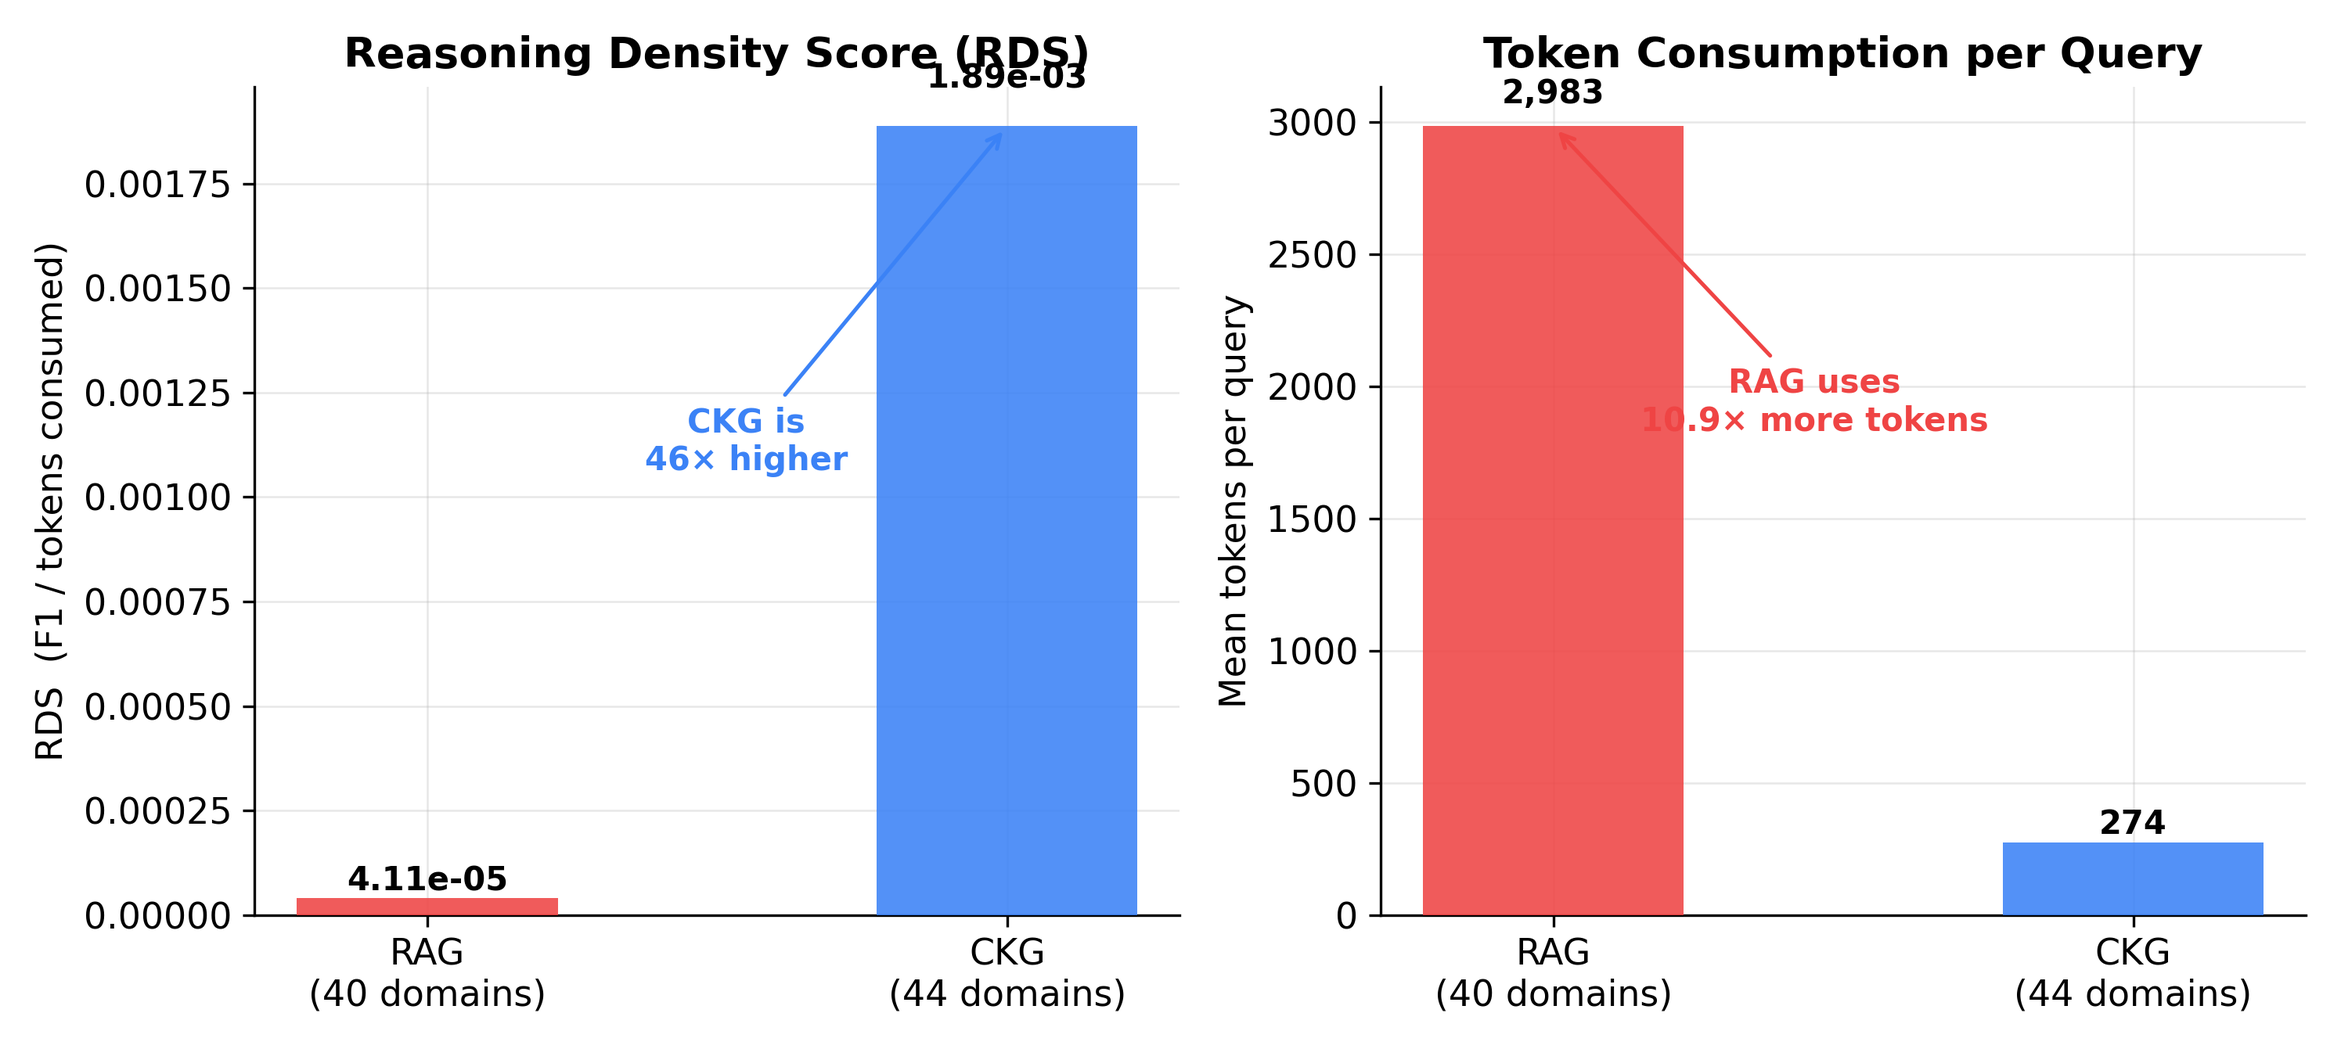
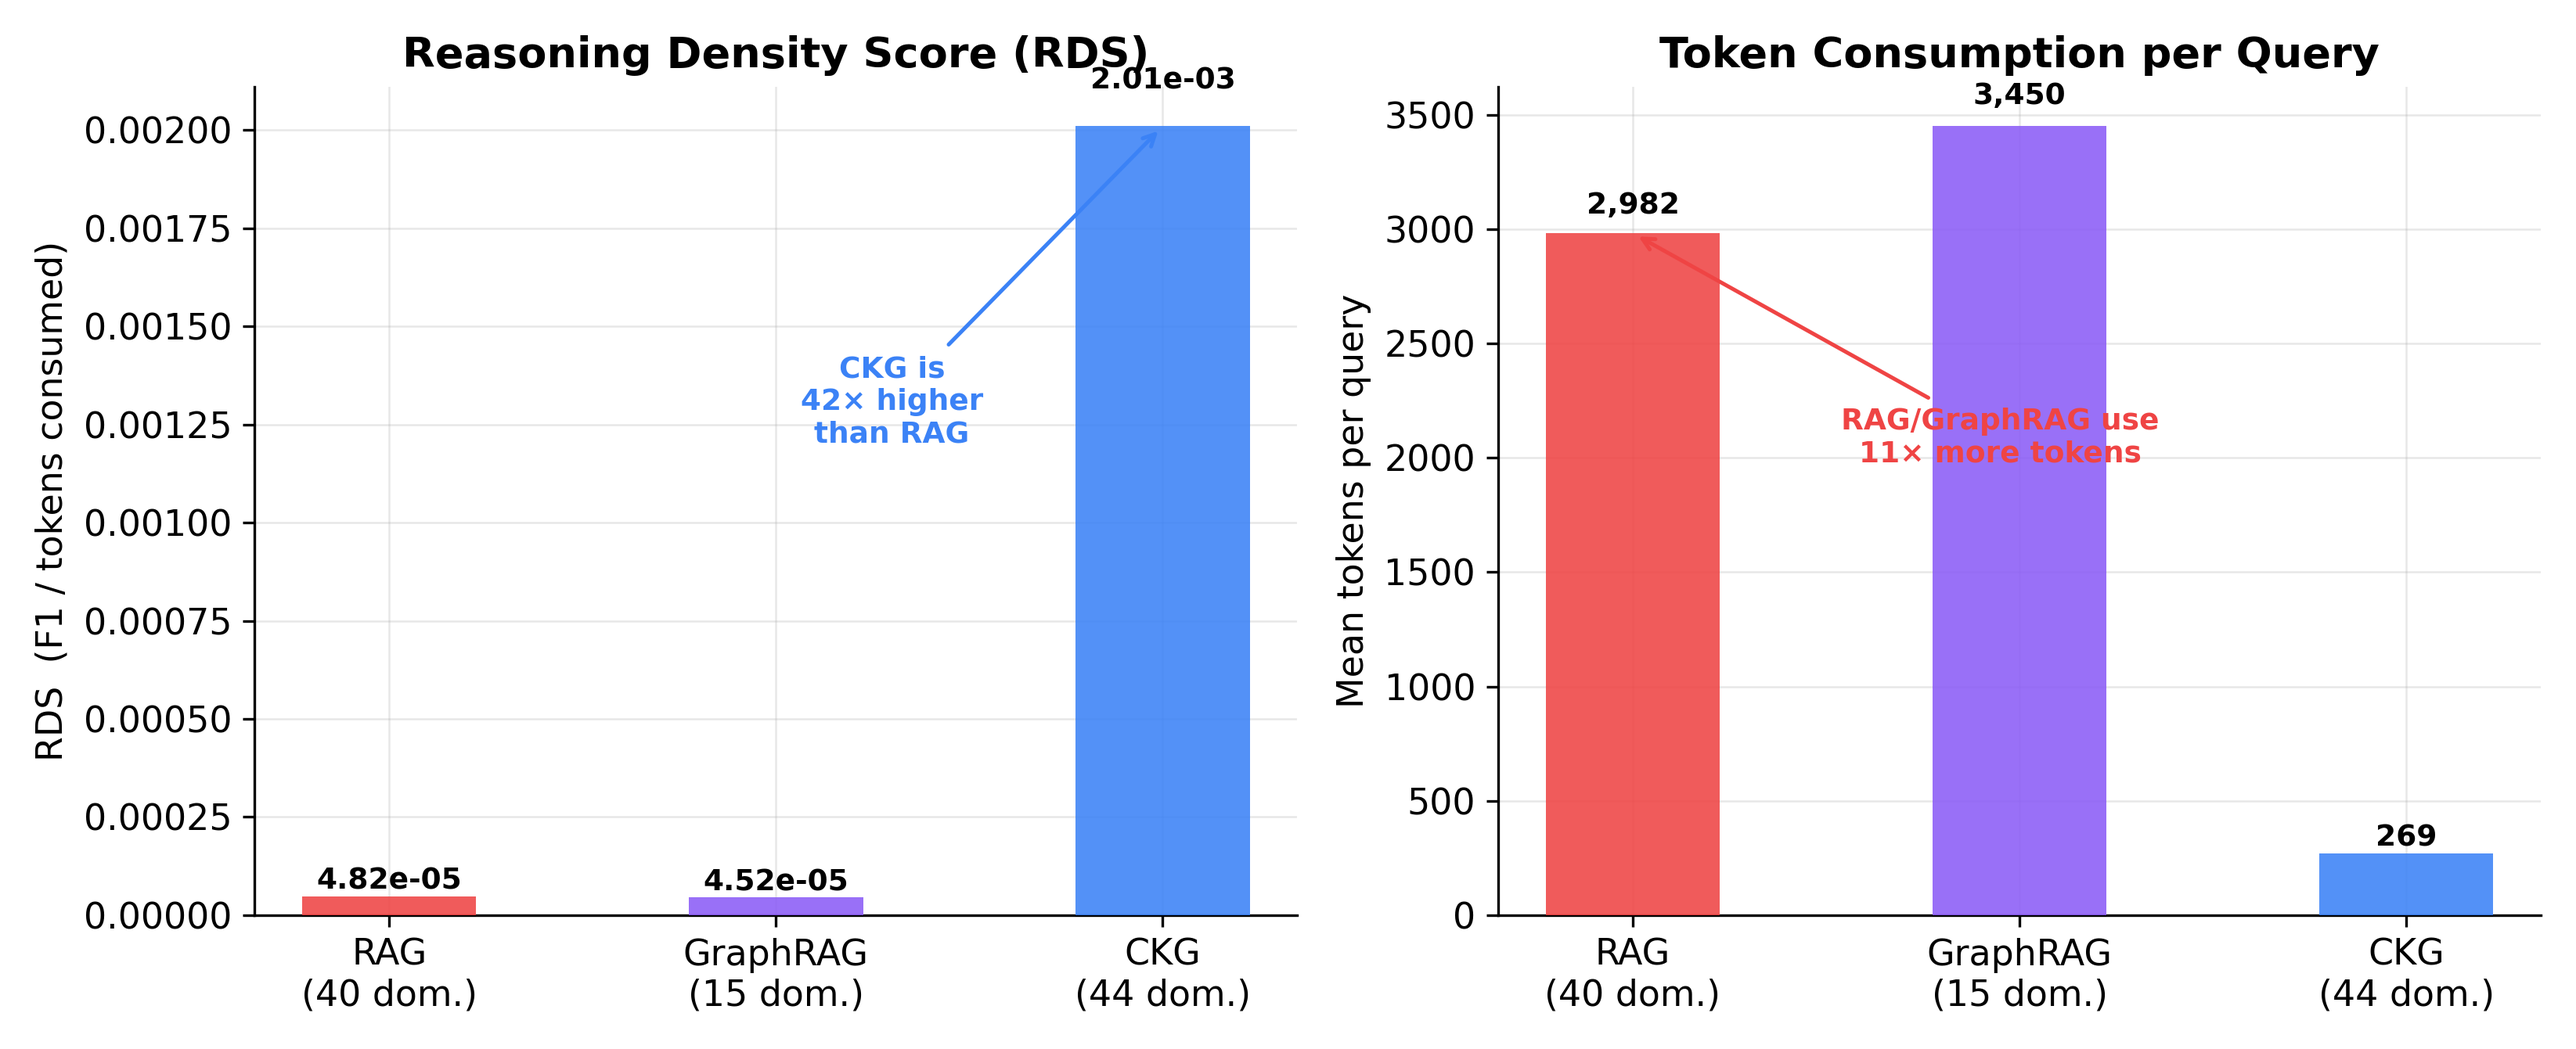
v0.6.1: title update, figures regenerated with final numbers, TODO removed
- Update title: drop "46 Domains / McCreary Corpus" framing, reflect two-track scope
- Regenerate all 5 figures with final measured numbers (CKG 0.4709, RAG 0.1231,
  GraphRAG 0.1200); fig3/fig4 now include GraphRAG as third system
- Fix hop-depth figure: CKG now correctly shows improvement with depth (peaks hop=5)
- Update figure generation script with GR data block
- Remove stale TODO from Discussion §9.1
- Bump to v0.6.1 (PATCH)

diff --git a/paper/figures/generate_all_figures.py b/paper/figures/generate_all_figures.py
@@ -52,36 +52,51 @@ OUT_DIR = Path("paper/figures")
 
 # ── Data ──────────────────────────────────────────────────────────────────────
 
-# Final CKG numbers (44 domains, 7,588 queries)
+# Final CKG numbers (44 domains, 7,758 queries) — v0.6.1
 CKG = {
-    "macro_f1":   0.4504,
-    "mean_tokens": 274,
-    "rds":         0.001887,
-    "cost":        13.53,
+    "macro_f1":   0.4709,
+    "mean_tokens": 269,
+    "rds":         0.00201,
+    "cost":        7.81,
     "f1_by_type": {
-        "T1 Entity":     0.189,
-        "T2 Prereq":     0.603,
-        "T3 Path":       0.614,
-        "T4 Aggregate":  0.951,
-        "T5 Cross":      0.326,
+        "T1 Entity":     0.207,
+        "T2 Prereq":     0.634,
+        "T3 Path":       0.660,
+        "T4 Aggregate":  0.964,
+        "T5 Cross":      0.323,
     },
-    "f1_by_hop": {0: 0.571, 1: 0.503, 2: 0.441, 3: 0.398, 4: 0.372},
+    "f1_by_hop": {0: 0.357, 1: 0.498, 2: 0.589, 3: 0.647, 4: 0.677, 5: 0.728},
 }
 
-# Final RAG numbers (40 domains, 6,844 queries)
+# Final RAG numbers (40 domains, 7,191 queries)
 RAG = {
-    "macro_f1":    0.1225,
-    "mean_tokens": 2982.8,
-    "rds":         4.107e-5,
-    "cost":        72.58,
+    "macro_f1":    0.1231,
+    "mean_tokens": 2982,
+    "rds":         4.82e-5,
+    "cost":        76.23,
     "f1_by_type": {
-        "T1 Entity":     0.0924,
-        "T2 Prereq":     0.0782,
-        "T3 Path":       0.2009,
-        "T4 Aggregate":  0.2915,
-        "T5 Cross":      0.1124,
+        "T1 Entity":     0.094,
+        "T2 Prereq":     0.078,
+        "T3 Path":       0.201,
+        "T4 Aggregate":  0.286,
+        "T5 Cross":      0.115,
     },
-    "f1_by_hop": {0: 0.201, 1: 0.152, 2: 0.118, 3: 0.087, 4: 0.063},
+    "f1_by_hop": {0: 0.132, 1: 0.095, 2: 0.183, 3: 0.205, 4: 0.207, 5: 0.205},
+}
+
+# Final GraphRAG numbers (15 domains, 2,683 queries)
+GR = {
+    "macro_f1":    0.1200,
+    "mean_tokens": 3450,
+    "rds":         4.52e-5,
+    "cost":        44.43,
+    "f1_by_type": {
+        "T1 Entity":     0.108,
+        "T2 Prereq":     0.073,
+        "T3 Path":       0.208,
+        "T4 Aggregate":  0.054,
+        "T5 Cross":      0.183,
+    },
 }
 
 # Per-domain RDS data (CKG) and proxy for DAG richness (avg edges/concept)
@@ -132,36 +147,34 @@ def fig_f1_by_type():
     labels   = list(CKG["f1_by_type"].keys())
     ckg_vals = [CKG["f1_by_type"][l] for l in labels]
     rag_vals = [RAG["f1_by_type"][l] for l in labels]
+    gr_vals  = [GR["f1_by_type"][l]  for l in labels]
 
     x     = np.arange(len(labels))
-    width = 0.35
+    width = 0.26
 
-    fig, ax = plt.subplots(figsize=(8.5, 5))
-    bars_rag = ax.bar(x - width/2, rag_vals, width, label="RAG",
+    fig, ax = plt.subplots(figsize=(9.5, 5))
+    bars_rag = ax.bar(x - width, rag_vals, width, label="RAG",
                       color=RAG_COLOR, alpha=0.88, zorder=3)
-    bars_ckg = ax.bar(x + width/2, ckg_vals, width, label="CKG",
+    bars_gr  = ax.bar(x,         gr_vals,  width, label="GraphRAG",
+                      color=GR_COLOR,  alpha=0.88, zorder=3)
+    bars_ckg = ax.bar(x + width, ckg_vals, width, label="CKG",
                       color=CKG_COLOR, alpha=0.88, zorder=3)
 
-    # Value labels
-    for bar in bars_rag:
-        ax.text(bar.get_x() + bar.get_width()/2, bar.get_height() + 0.012,
-                f"{bar.get_height():.2f}", ha="center", va="bottom",
-                fontsize=9, color=RAG_COLOR, fontweight="600")
-    for bar in bars_ckg:
-        ax.text(bar.get_x() + bar.get_width()/2, bar.get_height() + 0.012,
-                f"{bar.get_height():.2f}", ha="center", va="bottom",
-                fontsize=9, color=CKG_COLOR, fontweight="600")
+    for bars, color in [(bars_rag, RAG_COLOR), (bars_gr, GR_COLOR), (bars_ckg, CKG_COLOR)]:
+        for bar in bars:
+            ax.text(bar.get_x() + bar.get_width()/2, bar.get_height() + 0.012,
+                    f"{bar.get_height():.2f}", ha="center", va="bottom",
+                    fontsize=8, color=color, fontweight="600")
 
     ax.set_xticks(x)
     ax.set_xticklabels(labels)
     ax.set_ylabel("Token-level F1")
-    ax.set_ylim(0, 1.05)
-    ax.set_title("F1 by Query Type — CKG vs. RAG")
+    ax.set_ylim(0, 1.08)
+    ax.set_title("F1 by Query Type — CKG vs. RAG vs. GraphRAG (Track 1)")
     ax.legend(framealpha=0.9)
     ax.set_axisbelow(True)
 
-    # Annotate T1 as negative control
-    ax.annotate("negative\ncontrol", xy=(0, 0.19), xytext=(0.35, 0.38),
+    ax.annotate("negative\ncontrol", xy=(0 - width, 0.094), xytext=(0.4, 0.35),
                 fontsize=8, color=GRAY, style="italic",
                 arrowprops=dict(arrowstyle="->", color=GRAY, lw=0.8))
 
@@ -174,42 +187,41 @@ def fig_f1_by_type():
 # ── Figure 4: RDS + token efficiency ─────────────────────────────────────────
 
 def fig_rds_comparison():
-    fig, axes = plt.subplots(1, 2, figsize=(10, 4.5))
+    fig, axes = plt.subplots(1, 2, figsize=(11, 4.5))
 
-    # Left: RDS comparison
+    # Left: RDS comparison (all 3 systems)
     ax = axes[0]
-    systems = ["RAG\n(40 domains)", "CKG\n(44 domains)"]
-    rds_vals = [RAG["rds"], CKG["rds"]]
-    colors   = [RAG_COLOR, CKG_COLOR]
+    systems  = ["RAG\n(40 dom.)", "GraphRAG\n(15 dom.)", "CKG\n(44 dom.)"]
+    rds_vals = [RAG["rds"], GR["rds"], CKG["rds"]]
+    colors   = [RAG_COLOR, GR_COLOR, CKG_COLOR]
     bars = ax.bar(systems, rds_vals, color=colors, alpha=0.88, width=0.45, zorder=3)
     ax.set_ylabel("RDS  (F1 / tokens consumed)")
     ax.set_title("Reasoning Density Score (RDS)")
     ax.set_axisbelow(True)
     for bar, v in zip(bars, rds_vals):
         ax.text(bar.get_x() + bar.get_width()/2, bar.get_height() * 1.04,
-                f"{v:.2e}", ha="center", va="bottom", fontsize=10, fontweight="600")
-    # Ratio annotation
+                f"{v:.2e}", ha="center", va="bottom", fontsize=9, fontweight="600")
     ratio = CKG["rds"] / RAG["rds"]
-    ax.annotate(f"CKG is\n{ratio:.0f}× higher",
-                xy=(1, CKG["rds"]), xytext=(0.55, CKG["rds"] * 0.6),
-                fontsize=10, color=CKG_COLOR, fontweight="700",
+    ax.annotate(f"CKG is\n{ratio:.0f}× higher\nthan RAG",
+                xy=(2, CKG["rds"]), xytext=(1.3, CKG["rds"] * 0.65),
+                fontsize=9, color=CKG_COLOR, fontweight="700",
                 ha="center", va="center",
                 arrowprops=dict(arrowstyle="->", color=CKG_COLOR, lw=1.2))
 
     # Right: Token efficiency
     ax2 = axes[1]
-    tok_vals = [RAG["mean_tokens"], CKG["mean_tokens"]]
+    tok_vals = [RAG["mean_tokens"], GR["mean_tokens"], CKG["mean_tokens"]]
     bars2 = ax2.bar(systems, tok_vals, color=colors, alpha=0.88, width=0.45, zorder=3)
     ax2.set_ylabel("Mean tokens per query")
     ax2.set_title("Token Consumption per Query")
     ax2.set_axisbelow(True)
     for bar, v in zip(bars2, tok_vals):
         ax2.text(bar.get_x() + bar.get_width()/2, bar.get_height() * 1.02,
-                 f"{v:,.0f}", ha="center", va="bottom", fontsize=10, fontweight="600")
+                 f"{v:,.0f}", ha="center", va="bottom", fontsize=9, fontweight="600")
     tok_ratio = RAG["mean_tokens"] / CKG["mean_tokens"]
-    ax2.annotate(f"RAG uses\n{tok_ratio:.1f}× more tokens",
-                 xy=(0, RAG["mean_tokens"]), xytext=(0.45, RAG["mean_tokens"] * 0.65),
-                 fontsize=10, color=RAG_COLOR, fontweight="700",
+    ax2.annotate(f"RAG/GraphRAG use\n{tok_ratio:.0f}× more tokens",
+                 xy=(0, RAG["mean_tokens"]), xytext=(0.95, RAG["mean_tokens"] * 0.7),
+                 fontsize=9, color=RAG_COLOR, fontweight="700",
                  ha="center", va="center",
                  arrowprops=dict(arrowstyle="->", color=RAG_COLOR, lw=1.2))
 

diff --git a/paper/main.tex b/paper/main.tex
@@ -49,16 +49,16 @@
 % Title
 % ============================================================
 
-\title{Benchmarking Knowledge Retrieval Architectures Across 46 Domains:\\
-RAG, GraphRAG, and Compact Knowledge Graphs on the\\
-McCreary Intelligent Textbook Corpus}
+\title{Benchmarking Knowledge Retrieval Architectures\\
+Across Educational and Commercial Domains:\\
+RAG, GraphRAG, and Compact Knowledge Graphs}
 
 \author{
   Daniel Yarmoluk\thanks{Graphify.md --- \url{https://graphify.md}} \and
   Dan McCreary\thanks{Intelligent Textbooks --- \url{https://github.com/dmccreary}}
 }
 
-\newcommand{\paperversion}{0.6.0}
+\newcommand{\paperversion}{0.6.1}
 \date{Version \paperversion{} --- \today}
 
 % ============================================================

diff --git a/paper/sections/09-discussion.tex b/paper/sections/09-discussion.tex
@@ -2,8 +2,6 @@
 
 \subsection{Where CKG Wins and Why}\label{sec:disc-ckg-wins}
 
-% TODO: Expand with experimental evidence
-
 CKG's advantages are structural:
 \begin{itemize}
   \item \textbf{T2/T3 queries}: Explicit edges eliminate multi-hop inference errors.
